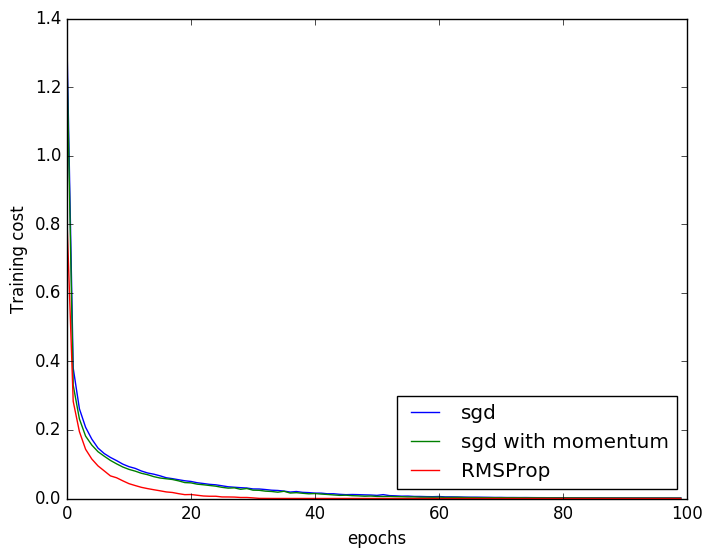
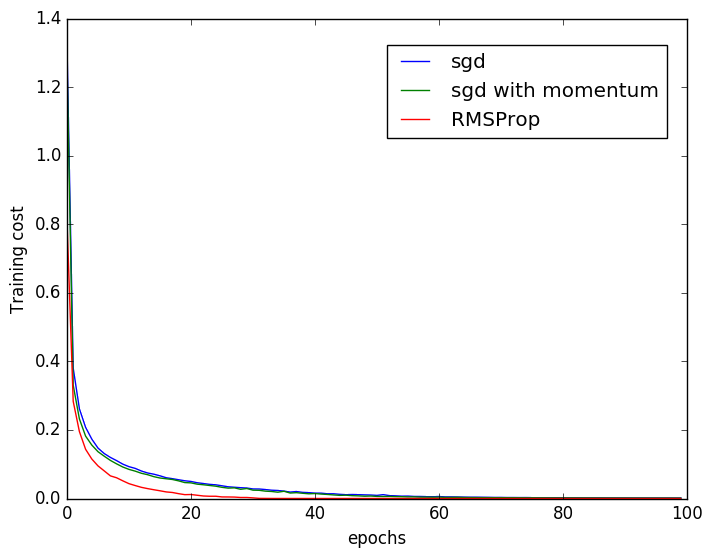
edit figure

Changed region(s): [[0.5562, 0.702, 0.9579, 0.8851], [0.5253, 0.061, 0.9579, 0.2747]]

diff --git a/assignment2/partA/project2a_all.py b/assignment2/partA/project2a_all.py
@@ -315,5 +315,5 @@ plt.figure(2)
 plt.plot(range(noIters), trainning_cost, label='RMSProp')
 plt.xlabel('epochs')
 plt.ylabel('Training cost')
-plt.legend(loc='lower right')
+plt.legend(loc='upper right')
 plt.savefig('trainningCost.png', bbox_inches='tight')
